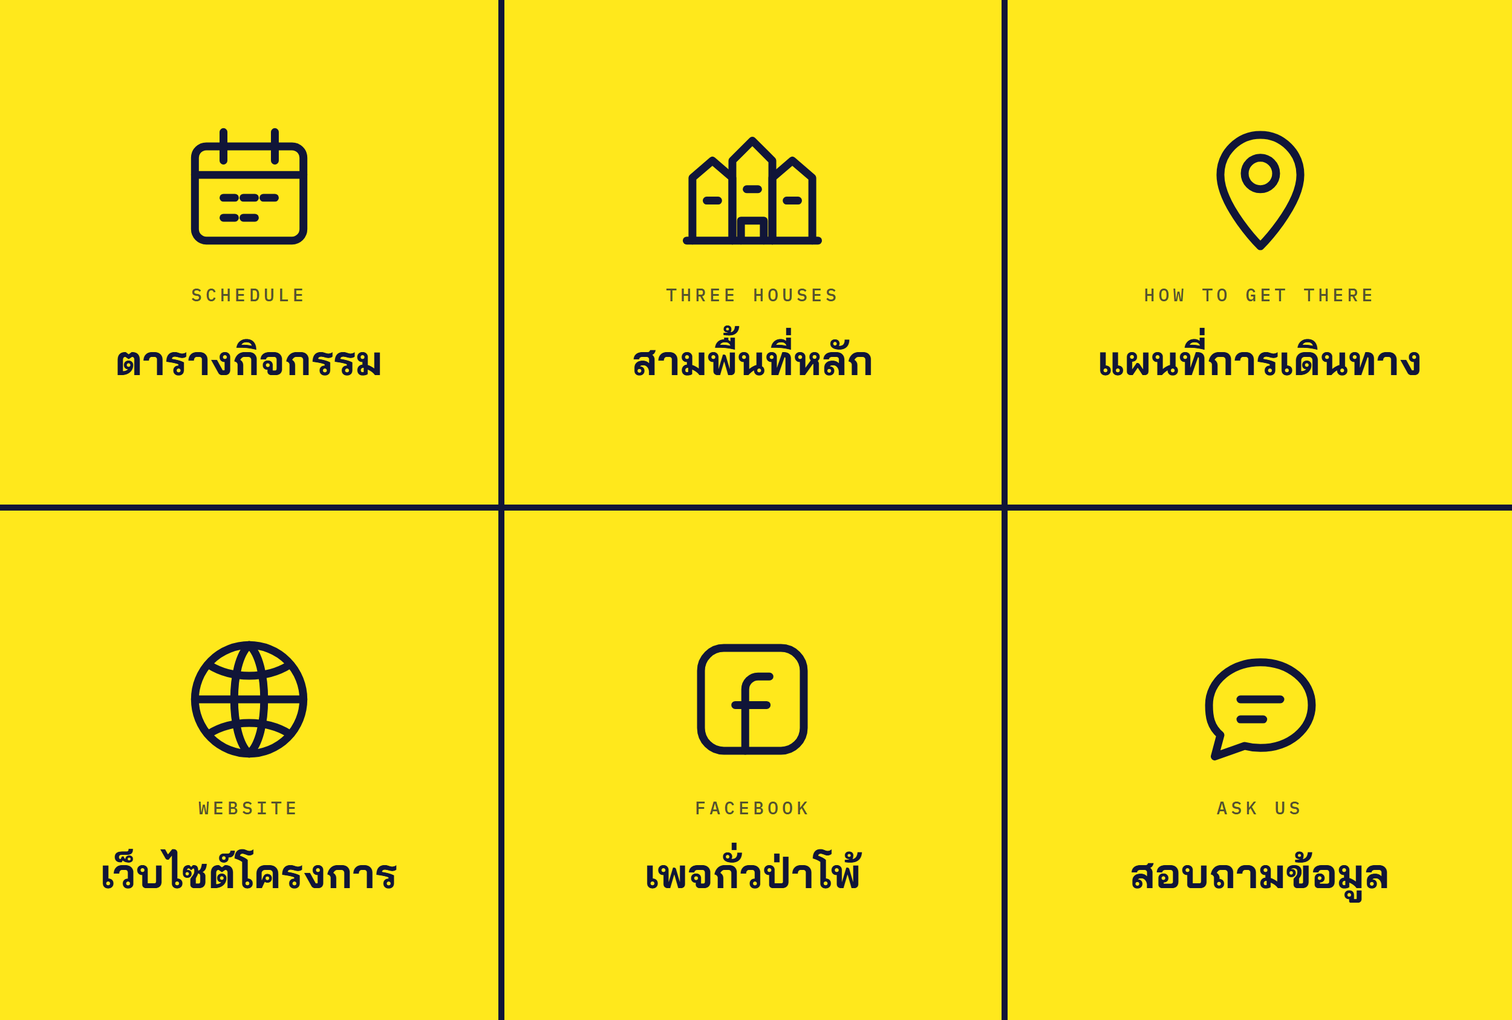
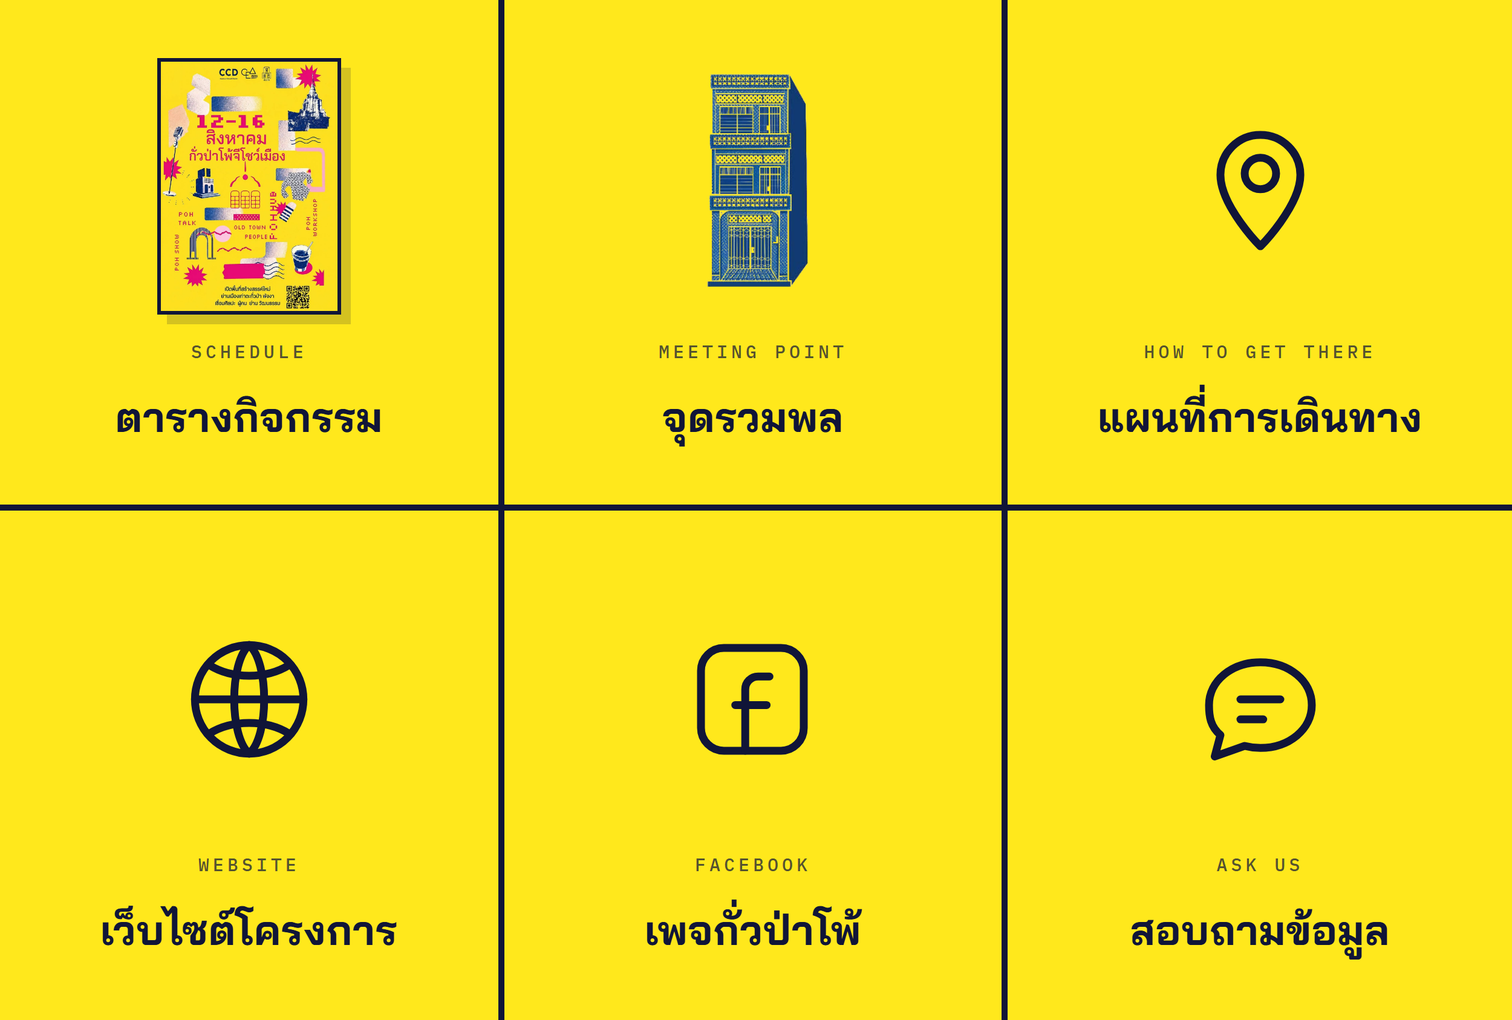
feat(richmenu): ใส่โปสเตอร์งานกับภาพลายเส้นบ้าน 78 แทนไอคอน · เปลี่ยนเป็น จุดรวมพล

diff --git a/richmenu/a-poster.html b/richmenu/a-poster.html
@@ -10,10 +10,10 @@
 .cell:nth-child(5){background:#EC0A72;color:#FBF7EC}
 .en{opacity:.7}
 </style></head><body>
-<div class="cell" style="background:#FFE81C;color:#101538"><div class="ico"><svg viewBox="0 0 100 100"><rect x="12" y="22" width="76" height="66" rx="8" stroke="currentColor" fill="none" stroke-width="5.5" stroke-linecap="round" stroke-linejoin="round"/><path d="M12 42h76M32 12v20M68 12v20" stroke="currentColor" fill="none" stroke-width="5.5" stroke-linecap="round" stroke-linejoin="round"/><path d="M32 58h8M46 58h8M60 58h8M32 72h8M46 72h8" stroke="currentColor" fill="none" stroke-width="5.5" stroke-linecap="round" stroke-linejoin="round"/></svg></div><div><div class="en">SCHEDULE</div><div class="th">ตารางกิจกรรม</div></div></div>
-<div class="cell" style="background:#FFE81C;color:#101538"><div class="ico"><svg viewBox="0 0 100 100"><path d="M8 88V44l14-12 14 12v44" stroke="currentColor" fill="none" stroke-width="5.5" stroke-linecap="round" stroke-linejoin="round"/><path d="M36 88V32l14-14 14 14v56" stroke="currentColor" fill="none" stroke-width="5.5" stroke-linecap="round" stroke-linejoin="round"/><path d="M64 88V44l14-12 14 12v44" stroke="currentColor" fill="none" stroke-width="5.5" stroke-linecap="round" stroke-linejoin="round"/><path d="M18 60h8M46 52h8M74 60h8M42 88v-14h16v14" stroke="currentColor" fill="none" stroke-width="5.5" stroke-linecap="round" stroke-linejoin="round"/><path d="M4 88h92" stroke="currentColor" fill="none" stroke-width="5.5" stroke-linecap="round" stroke-linejoin="round"/></svg></div><div><div class="en">THREE HOUSES</div><div class="th">สามพื้นที่หลัก</div></div></div>
-<div class="cell" style="background:#FFE81C;color:#101538"><div class="ico"><svg viewBox="0 0 100 100"><path d="M50 92C50 92 78 64 78 42a28 28 0 1 0-56 0c0 22 28 50 28 50z" stroke="currentColor" fill="none" stroke-width="5.5" stroke-linecap="round" stroke-linejoin="round"/><circle cx="50" cy="41" r="11" stroke="currentColor" fill="none" stroke-width="5.5" stroke-linecap="round" stroke-linejoin="round"/></svg></div><div><div class="en">HOW TO GET THERE</div><div class="th">แผนที่การเดินทาง</div></div></div>
-<div class="cell" style="background:#FFE81C;color:#101538"><div class="ico"><svg viewBox="0 0 100 100"><circle cx="50" cy="50" r="38" stroke="currentColor" fill="none" stroke-width="5.5" stroke-linecap="round" stroke-linejoin="round"/><path d="M12 50h76" stroke="currentColor" fill="none" stroke-width="5.5" stroke-linecap="round" stroke-linejoin="round"/><path d="M50 12c14 12 14 64 0 76-14-12-14-64 0-76z" stroke="currentColor" fill="none" stroke-width="5.5" stroke-linecap="round" stroke-linejoin="round"/><path d="M22 26c16 10 40 10 56 0M22 74c16-10 40-10 56 0" stroke="currentColor" fill="none" stroke-width="5.5" stroke-linecap="round" stroke-linejoin="round"/></svg></div><div><div class="en">WEBSITE</div><div class="th">เว็บไซต์โครงการ</div></div></div>
-<div class="cell" style="background:#FFE81C;color:#101538"><div class="ico"><svg viewBox="0 0 100 100"><rect x="14" y="14" width="72" height="72" rx="16" stroke="currentColor" fill="none" stroke-width="5.5" stroke-linecap="round" stroke-linejoin="round"/><path d="M62 34h-8a9 9 0 0 0-9 9v43M38 54h22" stroke="currentColor" fill="none" stroke-width="5.5" stroke-linecap="round" stroke-linejoin="round"/></svg></div><div><div class="en">FACEBOOK</div><div class="th">เพจกั่วป่าโพ้</div></div></div>
-<div class="cell" style="background:#FFE81C;color:#101538"><div class="ico"><svg viewBox="0 0 100 100"><path d="M86 54c0 17-16 30-36 30a44 44 0 0 1-11-1.4L18 90l4-15C15 69 14 62 14 54c0-17 16-30 36-30s36 13 36 30z" stroke="currentColor" fill="none" stroke-width="5.5" stroke-linecap="round" stroke-linejoin="round"/><path d="M36 50h28M36 64h16" stroke="currentColor" fill="none" stroke-width="5.5" stroke-linecap="round" stroke-linejoin="round"/></svg></div><div><div class="en">ASK US</div><div class="th">สอบถามข้อมูล</div></div></div>
+<div class="cell" style="background:#FFE81C;color:#101538"><div class="art"><img class="poster" src="../images/poster-main.webp" alt=""></div><div><div class="en">SCHEDULE</div><div class="th">ตารางกิจกรรม</div></div></div>
+<div class="cell" style="background:#FFE81C;color:#101538"><div class="art"><img class="art-line" src="../images/line-78.webp" alt=""></div><div><div class="en">MEETING POINT</div><div class="th">จุดรวมพล</div></div></div>
+<div class="cell" style="background:#FFE81C;color:#101538"><div class="art"><div class="ico"><svg viewBox="0 0 100 100"><path d="M50 92C50 92 78 64 78 42a28 28 0 1 0-56 0c0 22 28 50 28 50z" stroke="currentColor" fill="none" stroke-width="5.5" stroke-linecap="round" stroke-linejoin="round"/><circle cx="50" cy="41" r="11" stroke="currentColor" fill="none" stroke-width="5.5" stroke-linecap="round" stroke-linejoin="round"/></svg></div></div><div><div class="en">HOW TO GET THERE</div><div class="th">แผนที่การเดินทาง</div></div></div>
+<div class="cell" style="background:#FFE81C;color:#101538"><div class="art"><div class="ico"><svg viewBox="0 0 100 100"><circle cx="50" cy="50" r="38" stroke="currentColor" fill="none" stroke-width="5.5" stroke-linecap="round" stroke-linejoin="round"/><path d="M12 50h76" stroke="currentColor" fill="none" stroke-width="5.5" stroke-linecap="round" stroke-linejoin="round"/><path d="M50 12c14 12 14 64 0 76-14-12-14-64 0-76z" stroke="currentColor" fill="none" stroke-width="5.5" stroke-linecap="round" stroke-linejoin="round"/><path d="M22 26c16 10 40 10 56 0M22 74c16-10 40-10 56 0" stroke="currentColor" fill="none" stroke-width="5.5" stroke-linecap="round" stroke-linejoin="round"/></svg></div></div><div><div class="en">WEBSITE</div><div class="th">เว็บไซต์โครงการ</div></div></div>
+<div class="cell" style="background:#FFE81C;color:#101538"><div class="art"><div class="ico"><svg viewBox="0 0 100 100"><rect x="14" y="14" width="72" height="72" rx="16" stroke="currentColor" fill="none" stroke-width="5.5" stroke-linecap="round" stroke-linejoin="round"/><path d="M62 34h-8a9 9 0 0 0-9 9v43M38 54h22" stroke="currentColor" fill="none" stroke-width="5.5" stroke-linecap="round" stroke-linejoin="round"/></svg></div></div><div><div class="en">FACEBOOK</div><div class="th">เพจกั่วป่าโพ้</div></div></div>
+<div class="cell" style="background:#FFE81C;color:#101538"><div class="art"><div class="ico"><svg viewBox="0 0 100 100"><path d="M86 54c0 17-16 30-36 30a44 44 0 0 1-11-1.4L18 90l4-15C15 69 14 62 14 54c0-17 16-30 36-30s36 13 36 30z" stroke="currentColor" fill="none" stroke-width="5.5" stroke-linecap="round" stroke-linejoin="round"/><path d="M36 50h28M36 64h16" stroke="currentColor" fill="none" stroke-width="5.5" stroke-linecap="round" stroke-linejoin="round"/></svg></div></div><div><div class="en">ASK US</div><div class="th">สอบถามข้อมูล</div></div></div>
 </body></html>

diff --git a/richmenu/b-blocks.html b/richmenu/b-blocks.html
@@ -7,10 +7,10 @@
 .cell{box-shadow:0 0 0 3px rgba(16,21,56,.14) inset}
 .en{opacity:.72}
 </style></head><body>
-<div class="cell" style="background:#EC0A72;color:#FBF7EC"><div class="ico"><svg viewBox="0 0 100 100"><rect x="12" y="22" width="76" height="66" rx="8" stroke="currentColor" fill="none" stroke-width="5.5" stroke-linecap="round" stroke-linejoin="round"/><path d="M12 42h76M32 12v20M68 12v20" stroke="currentColor" fill="none" stroke-width="5.5" stroke-linecap="round" stroke-linejoin="round"/><path d="M32 58h8M46 58h8M60 58h8M32 72h8M46 72h8" stroke="currentColor" fill="none" stroke-width="5.5" stroke-linecap="round" stroke-linejoin="round"/></svg></div><div><div class="en">SCHEDULE</div><div class="th">ตารางกิจกรรม</div></div></div>
-<div class="cell" style="background:#FFE81C;color:#101538"><div class="ico"><svg viewBox="0 0 100 100"><path d="M8 88V44l14-12 14 12v44" stroke="currentColor" fill="none" stroke-width="5.5" stroke-linecap="round" stroke-linejoin="round"/><path d="M36 88V32l14-14 14 14v56" stroke="currentColor" fill="none" stroke-width="5.5" stroke-linecap="round" stroke-linejoin="round"/><path d="M64 88V44l14-12 14 12v44" stroke="currentColor" fill="none" stroke-width="5.5" stroke-linecap="round" stroke-linejoin="round"/><path d="M18 60h8M46 52h8M74 60h8M42 88v-14h16v14" stroke="currentColor" fill="none" stroke-width="5.5" stroke-linecap="round" stroke-linejoin="round"/><path d="M4 88h92" stroke="currentColor" fill="none" stroke-width="5.5" stroke-linecap="round" stroke-linejoin="round"/></svg></div><div><div class="en">THREE HOUSES</div><div class="th">สามพื้นที่หลัก</div></div></div>
-<div class="cell" style="background:#1E3FA8;color:#FBF7EC"><div class="ico"><svg viewBox="0 0 100 100"><path d="M50 92C50 92 78 64 78 42a28 28 0 1 0-56 0c0 22 28 50 28 50z" stroke="currentColor" fill="none" stroke-width="5.5" stroke-linecap="round" stroke-linejoin="round"/><circle cx="50" cy="41" r="11" stroke="currentColor" fill="none" stroke-width="5.5" stroke-linecap="round" stroke-linejoin="round"/></svg></div><div><div class="en">HOW TO GET THERE</div><div class="th">แผนที่การเดินทาง</div></div></div>
-<div class="cell" style="background:#FBF7EC;color:#101538"><div class="ico"><svg viewBox="0 0 100 100"><circle cx="50" cy="50" r="38" stroke="currentColor" fill="none" stroke-width="5.5" stroke-linecap="round" stroke-linejoin="round"/><path d="M12 50h76" stroke="currentColor" fill="none" stroke-width="5.5" stroke-linecap="round" stroke-linejoin="round"/><path d="M50 12c14 12 14 64 0 76-14-12-14-64 0-76z" stroke="currentColor" fill="none" stroke-width="5.5" stroke-linecap="round" stroke-linejoin="round"/><path d="M22 26c16 10 40 10 56 0M22 74c16-10 40-10 56 0" stroke="currentColor" fill="none" stroke-width="5.5" stroke-linecap="round" stroke-linejoin="round"/></svg></div><div><div class="en">WEBSITE</div><div class="th">เว็บไซต์โครงการ</div></div></div>
-<div class="cell" style="background:#F4331F;color:#FBF7EC"><div class="ico"><svg viewBox="0 0 100 100"><rect x="14" y="14" width="72" height="72" rx="16" stroke="currentColor" fill="none" stroke-width="5.5" stroke-linecap="round" stroke-linejoin="round"/><path d="M62 34h-8a9 9 0 0 0-9 9v43M38 54h22" stroke="currentColor" fill="none" stroke-width="5.5" stroke-linecap="round" stroke-linejoin="round"/></svg></div><div><div class="en">FACEBOOK</div><div class="th">เพจกั่วป่าโพ้</div></div></div>
-<div class="cell" style="background:#101538;color:#FFE81C"><div class="ico"><svg viewBox="0 0 100 100"><path d="M86 54c0 17-16 30-36 30a44 44 0 0 1-11-1.4L18 90l4-15C15 69 14 62 14 54c0-17 16-30 36-30s36 13 36 30z" stroke="currentColor" fill="none" stroke-width="5.5" stroke-linecap="round" stroke-linejoin="round"/><path d="M36 50h28M36 64h16" stroke="currentColor" fill="none" stroke-width="5.5" stroke-linecap="round" stroke-linejoin="round"/></svg></div><div><div class="en">ASK US</div><div class="th">สอบถามข้อมูล</div></div></div>
+<div class="cell" style="background:#EC0A72;color:#FBF7EC"><div class="art"><img class="poster" src="../images/poster-main.webp" alt=""></div><div><div class="en">SCHEDULE</div><div class="th">ตารางกิจกรรม</div></div></div>
+<div class="cell" style="background:#FFE81C;color:#101538"><div class="art"><img class="art-line" src="../images/line-78.webp" alt=""></div><div><div class="en">MEETING POINT</div><div class="th">จุดรวมพล</div></div></div>
+<div class="cell" style="background:#1E3FA8;color:#FBF7EC"><div class="art"><div class="ico"><svg viewBox="0 0 100 100"><path d="M50 92C50 92 78 64 78 42a28 28 0 1 0-56 0c0 22 28 50 28 50z" stroke="currentColor" fill="none" stroke-width="5.5" stroke-linecap="round" stroke-linejoin="round"/><circle cx="50" cy="41" r="11" stroke="currentColor" fill="none" stroke-width="5.5" stroke-linecap="round" stroke-linejoin="round"/></svg></div></div><div><div class="en">HOW TO GET THERE</div><div class="th">แผนที่การเดินทาง</div></div></div>
+<div class="cell" style="background:#FBF7EC;color:#101538"><div class="art"><div class="ico"><svg viewBox="0 0 100 100"><circle cx="50" cy="50" r="38" stroke="currentColor" fill="none" stroke-width="5.5" stroke-linecap="round" stroke-linejoin="round"/><path d="M12 50h76" stroke="currentColor" fill="none" stroke-width="5.5" stroke-linecap="round" stroke-linejoin="round"/><path d="M50 12c14 12 14 64 0 76-14-12-14-64 0-76z" stroke="currentColor" fill="none" stroke-width="5.5" stroke-linecap="round" stroke-linejoin="round"/><path d="M22 26c16 10 40 10 56 0M22 74c16-10 40-10 56 0" stroke="currentColor" fill="none" stroke-width="5.5" stroke-linecap="round" stroke-linejoin="round"/></svg></div></div><div><div class="en">WEBSITE</div><div class="th">เว็บไซต์โครงการ</div></div></div>
+<div class="cell" style="background:#F4331F;color:#FBF7EC"><div class="art"><div class="ico"><svg viewBox="0 0 100 100"><rect x="14" y="14" width="72" height="72" rx="16" stroke="currentColor" fill="none" stroke-width="5.5" stroke-linecap="round" stroke-linejoin="round"/><path d="M62 34h-8a9 9 0 0 0-9 9v43M38 54h22" stroke="currentColor" fill="none" stroke-width="5.5" stroke-linecap="round" stroke-linejoin="round"/></svg></div></div><div><div class="en">FACEBOOK</div><div class="th">เพจกั่วป่าโพ้</div></div></div>
+<div class="cell" style="background:#101538;color:#FFE81C"><div class="art"><div class="ico"><svg viewBox="0 0 100 100"><path d="M86 54c0 17-16 30-36 30a44 44 0 0 1-11-1.4L18 90l4-15C15 69 14 62 14 54c0-17 16-30 36-30s36 13 36 30z" stroke="currentColor" fill="none" stroke-width="5.5" stroke-linecap="round" stroke-linejoin="round"/><path d="M36 50h28M36 64h16" stroke="currentColor" fill="none" stroke-width="5.5" stroke-linecap="round" stroke-linejoin="round"/></svg></div></div><div><div class="en">ASK US</div><div class="th">สอบถามข้อมูล</div></div></div>
 </body></html>

diff --git a/richmenu/c-paper.html b/richmenu/c-paper.html
@@ -16,10 +16,10 @@
 .en{opacity:.55}
 .th{font-size:32px}
 </style></head><body>
-<div class="cell" style="background:#FBF7EC;color:#101538"><div class="ico"><svg viewBox="0 0 100 100"><rect x="12" y="22" width="76" height="66" rx="8" stroke="currentColor" fill="none" stroke-width="5.5" stroke-linecap="round" stroke-linejoin="round"/><path d="M12 42h76M32 12v20M68 12v20" stroke="currentColor" fill="none" stroke-width="5.5" stroke-linecap="round" stroke-linejoin="round"/><path d="M32 58h8M46 58h8M60 58h8M32 72h8M46 72h8" stroke="currentColor" fill="none" stroke-width="5.5" stroke-linecap="round" stroke-linejoin="round"/></svg></div><div><div class="en">SCHEDULE</div><div class="th">ตารางกิจกรรม</div></div></div>
-<div class="cell" style="background:#FBF7EC;color:#101538"><div class="ico"><svg viewBox="0 0 100 100"><path d="M8 88V44l14-12 14 12v44" stroke="currentColor" fill="none" stroke-width="5.5" stroke-linecap="round" stroke-linejoin="round"/><path d="M36 88V32l14-14 14 14v56" stroke="currentColor" fill="none" stroke-width="5.5" stroke-linecap="round" stroke-linejoin="round"/><path d="M64 88V44l14-12 14 12v44" stroke="currentColor" fill="none" stroke-width="5.5" stroke-linecap="round" stroke-linejoin="round"/><path d="M18 60h8M46 52h8M74 60h8M42 88v-14h16v14" stroke="currentColor" fill="none" stroke-width="5.5" stroke-linecap="round" stroke-linejoin="round"/><path d="M4 88h92" stroke="currentColor" fill="none" stroke-width="5.5" stroke-linecap="round" stroke-linejoin="round"/></svg></div><div><div class="en">THREE HOUSES</div><div class="th">สามพื้นที่หลัก</div></div></div>
-<div class="cell" style="background:#FBF7EC;color:#101538"><div class="ico"><svg viewBox="0 0 100 100"><path d="M50 92C50 92 78 64 78 42a28 28 0 1 0-56 0c0 22 28 50 28 50z" stroke="currentColor" fill="none" stroke-width="5.5" stroke-linecap="round" stroke-linejoin="round"/><circle cx="50" cy="41" r="11" stroke="currentColor" fill="none" stroke-width="5.5" stroke-linecap="round" stroke-linejoin="round"/></svg></div><div><div class="en">HOW TO GET THERE</div><div class="th">แผนที่การเดินทาง</div></div></div>
-<div class="cell" style="background:#FBF7EC;color:#101538"><div class="ico"><svg viewBox="0 0 100 100"><circle cx="50" cy="50" r="38" stroke="currentColor" fill="none" stroke-width="5.5" stroke-linecap="round" stroke-linejoin="round"/><path d="M12 50h76" stroke="currentColor" fill="none" stroke-width="5.5" stroke-linecap="round" stroke-linejoin="round"/><path d="M50 12c14 12 14 64 0 76-14-12-14-64 0-76z" stroke="currentColor" fill="none" stroke-width="5.5" stroke-linecap="round" stroke-linejoin="round"/><path d="M22 26c16 10 40 10 56 0M22 74c16-10 40-10 56 0" stroke="currentColor" fill="none" stroke-width="5.5" stroke-linecap="round" stroke-linejoin="round"/></svg></div><div><div class="en">WEBSITE</div><div class="th">เว็บไซต์โครงการ</div></div></div>
-<div class="cell" style="background:#FBF7EC;color:#101538"><div class="ico"><svg viewBox="0 0 100 100"><rect x="14" y="14" width="72" height="72" rx="16" stroke="currentColor" fill="none" stroke-width="5.5" stroke-linecap="round" stroke-linejoin="round"/><path d="M62 34h-8a9 9 0 0 0-9 9v43M38 54h22" stroke="currentColor" fill="none" stroke-width="5.5" stroke-linecap="round" stroke-linejoin="round"/></svg></div><div><div class="en">FACEBOOK</div><div class="th">เพจกั่วป่าโพ้</div></div></div>
-<div class="cell" style="background:#FBF7EC;color:#101538"><div class="ico"><svg viewBox="0 0 100 100"><path d="M86 54c0 17-16 30-36 30a44 44 0 0 1-11-1.4L18 90l4-15C15 69 14 62 14 54c0-17 16-30 36-30s36 13 36 30z" stroke="currentColor" fill="none" stroke-width="5.5" stroke-linecap="round" stroke-linejoin="round"/><path d="M36 50h28M36 64h16" stroke="currentColor" fill="none" stroke-width="5.5" stroke-linecap="round" stroke-linejoin="round"/></svg></div><div><div class="en">ASK US</div><div class="th">สอบถามข้อมูล</div></div></div>
+<div class="cell" style="background:#FBF7EC;color:#101538"><div class="art"><img class="poster" src="../images/poster-main.webp" alt=""></div><div><div class="en">SCHEDULE</div><div class="th">ตารางกิจกรรม</div></div></div>
+<div class="cell" style="background:#FBF7EC;color:#101538"><div class="art"><img class="art-line" src="../images/line-78.webp" alt=""></div><div><div class="en">MEETING POINT</div><div class="th">จุดรวมพล</div></div></div>
+<div class="cell" style="background:#FBF7EC;color:#101538"><div class="art"><div class="ico"><svg viewBox="0 0 100 100"><path d="M50 92C50 92 78 64 78 42a28 28 0 1 0-56 0c0 22 28 50 28 50z" stroke="currentColor" fill="none" stroke-width="5.5" stroke-linecap="round" stroke-linejoin="round"/><circle cx="50" cy="41" r="11" stroke="currentColor" fill="none" stroke-width="5.5" stroke-linecap="round" stroke-linejoin="round"/></svg></div></div><div><div class="en">HOW TO GET THERE</div><div class="th">แผนที่การเดินทาง</div></div></div>
+<div class="cell" style="background:#FBF7EC;color:#101538"><div class="art"><div class="ico"><svg viewBox="0 0 100 100"><circle cx="50" cy="50" r="38" stroke="currentColor" fill="none" stroke-width="5.5" stroke-linecap="round" stroke-linejoin="round"/><path d="M12 50h76" stroke="currentColor" fill="none" stroke-width="5.5" stroke-linecap="round" stroke-linejoin="round"/><path d="M50 12c14 12 14 64 0 76-14-12-14-64 0-76z" stroke="currentColor" fill="none" stroke-width="5.5" stroke-linecap="round" stroke-linejoin="round"/><path d="M22 26c16 10 40 10 56 0M22 74c16-10 40-10 56 0" stroke="currentColor" fill="none" stroke-width="5.5" stroke-linecap="round" stroke-linejoin="round"/></svg></div></div><div><div class="en">WEBSITE</div><div class="th">เว็บไซต์โครงการ</div></div></div>
+<div class="cell" style="background:#FBF7EC;color:#101538"><div class="art"><div class="ico"><svg viewBox="0 0 100 100"><rect x="14" y="14" width="72" height="72" rx="16" stroke="currentColor" fill="none" stroke-width="5.5" stroke-linecap="round" stroke-linejoin="round"/><path d="M62 34h-8a9 9 0 0 0-9 9v43M38 54h22" stroke="currentColor" fill="none" stroke-width="5.5" stroke-linecap="round" stroke-linejoin="round"/></svg></div></div><div><div class="en">FACEBOOK</div><div class="th">เพจกั่วป่าโพ้</div></div></div>
+<div class="cell" style="background:#FBF7EC;color:#101538"><div class="art"><div class="ico"><svg viewBox="0 0 100 100"><path d="M86 54c0 17-16 30-36 30a44 44 0 0 1-11-1.4L18 90l4-15C15 69 14 62 14 54c0-17 16-30 36-30s36 13 36 30z" stroke="currentColor" fill="none" stroke-width="5.5" stroke-linecap="round" stroke-linejoin="round"/><path d="M36 50h28M36 64h16" stroke="currentColor" fill="none" stroke-width="5.5" stroke-linecap="round" stroke-linejoin="round"/></svg></div></div><div><div class="en">ASK US</div><div class="th">สอบถามข้อมูล</div></div></div>
 </body></html>

diff --git a/richmenu/_base.css b/richmenu/_base.css
@@ -10,8 +10,18 @@ body{
   align-items:center;justify-content:center;gap:22px;
   padding:36px 28px;text-align:center;overflow:hidden;
 }
-.ico{width:118px;height:118px;flex:none}
+/* กล่องภาพสูงเท่ากันทุกช่อง ไอคอนกับรูปจริงจะได้ไม่ดันบรรทัดล่างเหลื่อมกัน */
+.art{height:212px;flex:none;display:flex;align-items:center;justify-content:center}
+.ico{width:118px;height:118px}
 .ico svg{width:100%;height:100%;display:block}
+/* โปสเตอร์งานจริง · พื้นโปสเตอร์เหลืองเท่าพื้นเมนู เลยต้องมีขอบคั่นให้เห็นว่าเป็นแผ่น */
+.poster{
+  height:100%;width:auto;display:block;
+  border:3px solid #101538;
+  box-shadow:8px 8px 0 rgba(16,21,56,.18);
+}
+/* ภาพลายเส้นตัวอาคาร พื้นโปร่งใสอยู่แล้ว ไม่ต้องมีขอบ */
+.art-line{height:100%;width:auto;display:block}
 .en{
   font-family:'IBM Plex Mono',ui-monospace,monospace;font-weight:500;
   font-size:15px;letter-spacing:.2em;text-transform:uppercase;

diff --git a/richmenu/gen.py b/richmenu/gen.py
@@ -34,9 +34,15 @@ ICONS = {
            f'<path d="M36 50h28M36 64h16" {S}/></svg>',
 }
 
+# สองช่องแรกใช้ภาพจริงจากเว็บแทนไอคอน (ไฟล์เดียวกัน ไม่ก๊อปซ้ำ)
+ART = {
+    "__poster__": '<img class="poster" src="../images/poster-main.webp" alt="">',
+    "__line78__": '<img class="art-line" src="../images/line-78.webp" alt="">',
+}
+
 CELLS = [
-    ("schedule", "SCHEDULE", "ตารางกิจกรรม"),
-    ("houses", "THREE HOUSES", "สามพื้นที่หลัก"),
+    ("__poster__", "SCHEDULE", "ตารางกิจกรรม"),
+    ("__line78__", "MEETING POINT", "จุดรวมพล"),
     ("map", "HOW TO GET THERE", "แผนที่การเดินทาง"),
     ("web", "WEBSITE", "เว็บไซต์โครงการ"),
     ("fb", "FACEBOOK", "เพจกั่วป่าโพ้"),
@@ -104,9 +110,10 @@ HEAD = """<!doctype html><html lang="th"><head><meta charset="utf-8">
 for name, v in VARIANTS.items():
     rows = []
     for (key, en, th), (bg, fg) in zip(CELLS, v["skin"]):
+        inner = ART.get(key) or f'<div class="ico">{ICONS[key]}</div>'
         rows.append(
             f'<div class="cell" style="background:{bg};color:{fg}">'
-            f'<div class="ico">{ICONS[key]}</div>'
+            f'<div class="art">{inner}</div>'
             f'<div><div class="en">{en}</div><div class="th">{th}</div></div></div>'
         )
     html = HEAD % v["extra"] + "\n".join(rows) + "\n</body></html>"
